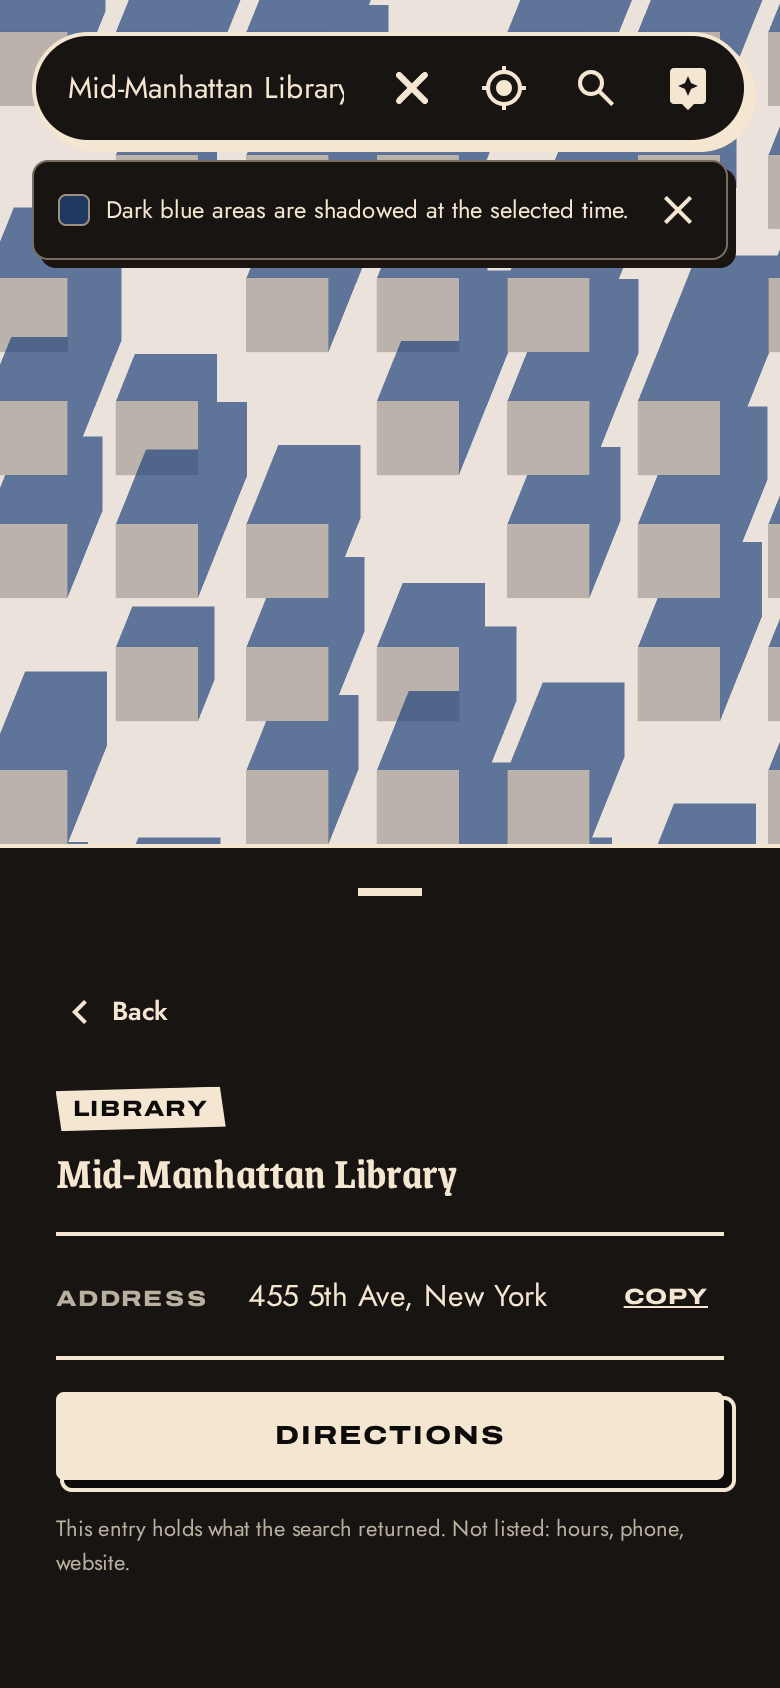
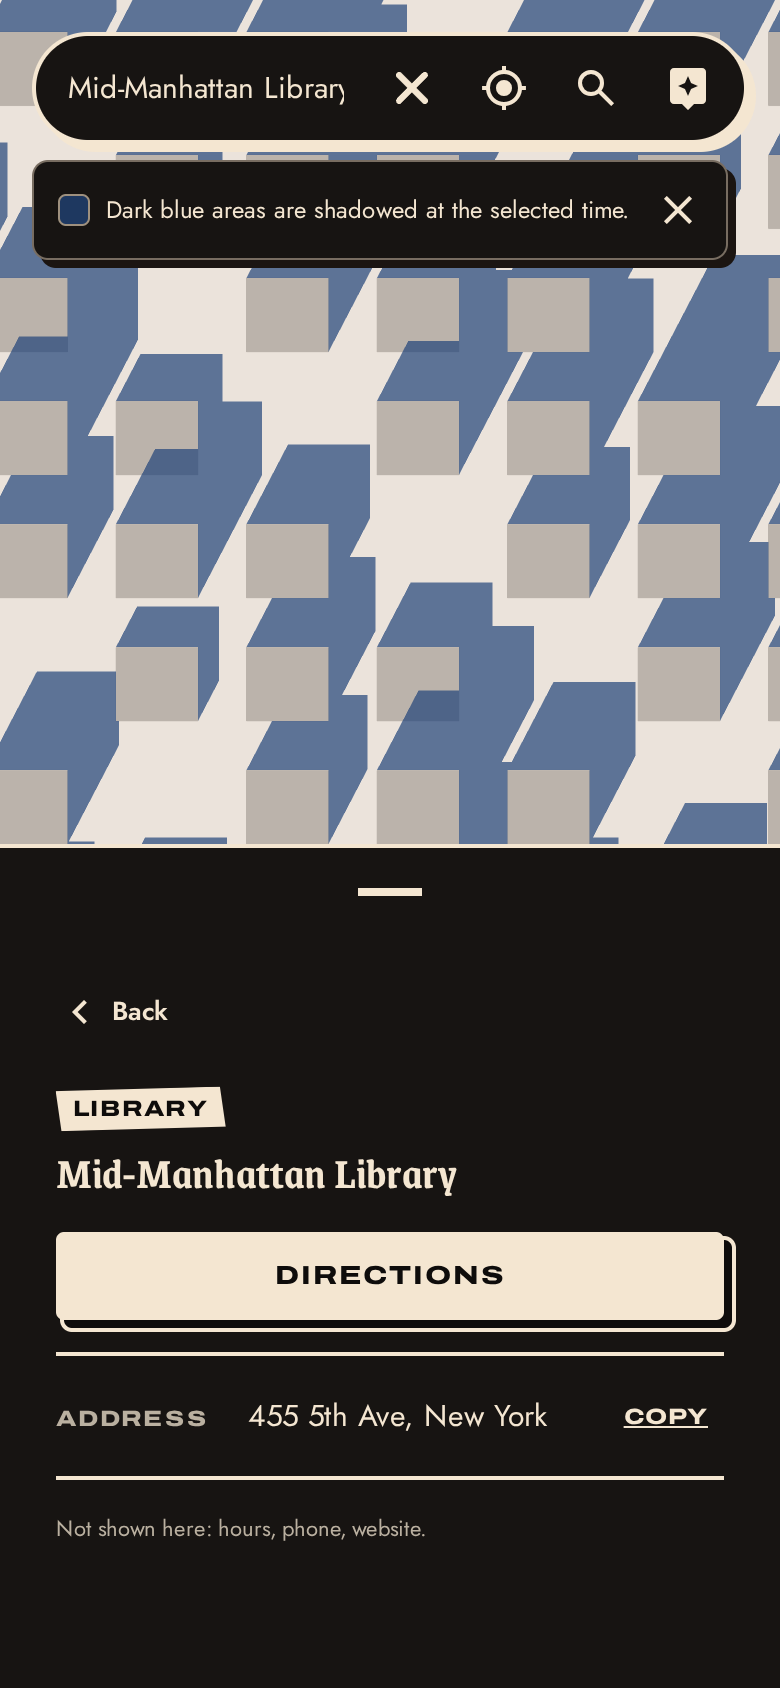
fix(design): ground the place entry's copy, lift Directions under the heading, 44px links

diff --git a/app/components/PlaceDetail.tsx b/app/components/PlaceDetail.tsx
@@ -1,4 +1,4 @@
-import type { ReactNode } from "react";
+import { type ReactNode, useState } from "react";
 import type { PlaceInfo } from "../hooks/useAppState";
 import Kicker from "./ui/Kicker";
 
@@ -10,12 +10,14 @@ interface PlaceDetailProps {
 
 /**
  * A place as a guidebook entry: category plate, the name as its heading, then
- * ruled lines for only the facts the search actually returned. A fact the
- * provider did not give is named as missing once, never drawn as an empty row
- * or a fallback value (a "$$" price, placeholder photos and no-op actions used
- * to stand in for data nobody had).
+ * ruled lines for only the facts this entry holds. A fact it does not hold is
+ * named as missing once, never drawn as an empty row or a fallback value (a
+ * "$$" price, placeholder photos and no-op actions used to stand in for data
+ * nobody had). The caption says "not shown here", not "not returned": the
+ * search can carry hours and a rating that the selection does not pass on yet.
  */
 export default function PlaceDetail({ place, onDirections, onBack }: PlaceDetailProps) {
+  const [copyState, setCopyState] = useState<"idle" | "copied" | "failed">("idle");
   const missing = [
     !place.hours && "hours",
     !place.phone && "phone",
@@ -39,14 +41,11 @@ export default function PlaceDetail({ place, onDirections, onBack }: PlaceDetail
         <h2 className="font-display text-verdict font-semibold leading-tight">{place.name}</h2>
       </header>
 
-      {place.photo && (
-        <img
-          src={place.photo}
-          alt={place.name}
-          className="aspect-video w-full border-2 object-cover"
-          style={{ borderColor: "var(--color-ink)" }}
-        />
-      )}
+      {/* Directly under the heading, so the action sits inside the sheet's first snap
+          point however many lines the entry grows. */}
+      <button type="button" onClick={onDirections} className="umbra-start-button">
+        Directions
+      </button>
 
       <dl className="m-0 border-y-2" style={{ borderColor: "var(--color-ink)" }}>
         <EntryLine term="Address">
@@ -56,27 +55,35 @@ export default function PlaceDetail({ place, onDirections, onBack }: PlaceDetail
               <button
                 type="button"
                 onClick={async () => {
-                  try { await navigator.clipboard.writeText(place.address ?? ""); } catch { /* ignore */ }
+                  try {
+                    await navigator.clipboard.writeText(place.address ?? "");
+                    setCopyState("copied");
+                  } catch {
+                    setCopyState("failed");
+                  }
                 }}
+                aria-label="Copy address"
                 className="min-h-11 shrink-0 px-2 font-extrabold uppercase tracking-wider underline focus-visible:outline-2 focus-visible:-outline-offset-2 focus-visible:outline-current"
                 style={{ fontFamily: "var(--font-label)", fontSize: "var(--text-caption)" }}
               >
-                Copy
+                <span aria-live="polite">{copyState === "copied" ? "Copied" : copyState === "failed" ? "Copy failed" : "Copy"}</span>
               </button>
             </span>
           ) : (
-            <span style={{ color: "var(--color-ink-muted)" }}>Not in the search result</span>
+            <span style={{ color: "var(--color-ink-muted)" }}>No address on file</span>
           )}
         </EntryLine>
         {place.hours && <EntryLine term="Hours">{place.hours}</EntryLine>}
         {place.phone && (
           <EntryLine term="Phone">
-            <a href={`tel:${place.phone}`} className="underline">{place.phone}</a>
+            <a href={`tel:${place.phone.replace(/\s+/g, "")}`} className="inline-flex min-h-11 items-center underline focus-visible:outline-2 focus-visible:-outline-offset-2 focus-visible:outline-current">
+              {place.phone}
+            </a>
           </EntryLine>
         )}
         {place.website && (
           <EntryLine term="Website">
-            <a href={place.website} target="_blank" rel="noopener noreferrer" className="break-all underline">
+            <a href={place.website} target="_blank" rel="noopener noreferrer" className="break-all inline-flex min-h-11 items-center underline focus-visible:outline-2 focus-visible:-outline-offset-2 focus-visible:outline-current">
               {place.website}
             </a>
           </EntryLine>
@@ -86,27 +93,32 @@ export default function PlaceDetail({ place, onDirections, onBack }: PlaceDetail
             <span className="tabular-nums font-extrabold" style={{ fontFamily: "var(--font-numeric)" }}>
               {place.rating.toFixed(1)}/10
             </span>
-            {(place.reviewCount ?? 0) > 0 && (
-              <span style={{ color: "var(--color-ink-muted)" }}> · {place.reviewCount} reviews</span>
-            )}
+            <span style={{ color: "var(--color-ink-muted)" }}>
+              {(place.reviewCount ?? 0) > 0 && ` · ${place.reviewCount} reviews`} · Foursquare
+            </span>
           </EntryLine>
         )}
         {place.priceLevel && <EntryLine term="Price">{place.priceLevel}</EntryLine>}
       </dl>
 
-      <button type="button" onClick={onDirections} className="umbra-start-button">
-        Directions
-      </button>
-
       {missing.length > 0 && (
         <p className="m-0" style={{ fontSize: "var(--text-caption)", color: "var(--color-ink-muted)" }}>
-          This entry holds what the search returned. Not listed: {missing.join(", ")}.
+          Not shown here: {missing.join(", ")}.
         </p>
+      )}
+
+      {place.photo && (
+        <img
+          src={place.photo}
+          alt=""
+          className="aspect-video w-full border-2 object-cover"
+          style={{ borderColor: "var(--color-ink)" }}
+        />
       )}
 
       {place.description && (
         <section>
-          <Kicker>About</Kicker>
+          <h3 className="umbra-kicker m-0">About</h3>
           <p className="mt-1 leading-relaxed" style={{ fontSize: "var(--text-small)" }}>{place.description}</p>
         </section>
       )}

diff --git a/app/components/__tests__/PlaceDetail.test.tsx b/app/components/__tests__/PlaceDetail.test.tsx
@@ -1,12 +1,14 @@
 /* @vitest-environment jsdom */
-import { cleanup, fireEvent, render, screen } from "@testing-library/react";
+import { cleanup, fireEvent, render, screen, waitFor } from "@testing-library/react";
 import { afterEach, describe, expect, it, vi } from "vitest";
 import PlaceDetail from "../PlaceDetail";
 
 /**
- * The claim under test is an honesty one: a search result carries only a name,
- * category and address, so the entry must not draw a price, rating, hours or
- * photos it was never given, and must say which facts are missing.
+ * The claim under test is an honesty one: a selected place arrives with only a
+ * name, category and address (page.tsx handleSearchSelect), so the entry must
+ * not draw a price, rating, hours or photos it was never given, and must say
+ * which facts are missing. The fuller fixture below is not reachable from the
+ * app today; it pins how each line renders once those facts are passed on.
  */
 afterEach(cleanup);
 
@@ -18,17 +20,17 @@ const SEARCHED = {
 };
 
 describe("PlaceDetail", () => {
-  it("shows only what the search returned and names the missing facts", () => {
+  it("shows only the facts it was given and names the missing ones", () => {
     render(<PlaceDetail place={SEARCHED} onDirections={() => {}} onBack={() => {}} />);
 
     expect(screen.getByRole("heading", { name: "Mid-Manhattan Library" })).toBeTruthy();
     expect(screen.getByText("Library")).toBeTruthy();
     expect(screen.getByText("455 5th Ave, New York")).toBeTruthy();
-    expect(screen.getByText(/Not listed: hours, phone, website\./)).toBeTruthy();
+    expect(screen.getByText(/Not shown here: hours, phone, website\./)).toBeTruthy();
     // The old fallbacks: an invented price, placeholder photos, a rating row.
     expect(screen.queryByText("$$")).toBeNull();
     expect(screen.queryByText("Photo")).toBeNull();
-    expect(screen.queryByText("Rating")).toBeNull();
+    for (const term of ["Hours", "Phone", "Website", "Rating", "Price"]) expect(screen.queryByText(term)).toBeNull();
     expect(screen.queryByRole("img")).toBeNull();
   });
 
@@ -42,19 +44,32 @@ describe("PlaceDetail", () => {
     );
 
     expect(screen.getByText("Open until 8 PM")).toBeTruthy();
-    expect(screen.getByRole("link", { name: "212 555 0100" }).getAttribute("href")).toBe("tel:212 555 0100");
+    expect(screen.getByRole("link", { name: "212 555 0100" }).getAttribute("href")).toBe("tel:2125550100");
     expect(screen.getByRole("link", { name: "https://example.org" })).toBeTruthy();
     expect(screen.getByText("9.1/10")).toBeTruthy();
     expect(screen.getByText("$")).toBeTruthy();
-    expect(screen.queryByText(/Not listed/)).toBeNull();
+    expect(screen.queryByText(/Not shown here/)).toBeNull();
   });
 
   it("says the address is missing rather than inventing one", () => {
     render(<PlaceDetail place={{ ...SEARCHED, address: null, category: null }} onDirections={() => {}} onBack={() => {}} />);
 
-    expect(screen.getByText("Not in the search result")).toBeTruthy();
+    expect(screen.getByText("No address on file")).toBeTruthy();
     expect(screen.getByText("Place")).toBeTruthy();
-    expect(screen.queryByRole("button", { name: "Copy" })).toBeNull();
+    expect(screen.queryByRole("button", { name: "Copy address" })).toBeNull();
+  });
+
+  it("says whether the address was copied", async () => {
+    const writeText = vi.fn().mockResolvedValueOnce(undefined).mockRejectedValueOnce(new Error("denied"));
+    Object.defineProperty(navigator, "clipboard", { value: { writeText }, configurable: true });
+    render(<PlaceDetail place={SEARCHED} onDirections={() => {}} onBack={() => {}} />);
+    const copy = screen.getByRole("button", { name: "Copy address" });
+
+    fireEvent.click(copy);
+    await waitFor(() => expect(copy.textContent).toBe("Copied"));
+    expect(writeText).toHaveBeenCalledWith("455 5th Ave, New York");
+    fireEvent.click(copy);
+    await waitFor(() => expect(copy.textContent).toBe("Copy failed"));
   });
 
   it("wires Directions and Back", () => {

diff --git a/docs/tracks/TRACK_R.md b/docs/tracks/TRACK_R.md
@@ -24,7 +24,22 @@ inspiration; the public mirror publishes everything here.
 
 ## Current state
 
-- **Active checkpoint:** R7a (#172), the first slice of R7 (search, place detail,
+- **Active checkpoint:** R7b (#173), PlaceDetail as a guidebook entry, stacked on R7a
+  (PR #176). The entry is an `article`: a 44px Back row, the category on a tilted ink
+  `Kicker` plate (fallback "Place"), the name as an `h2` in Grenze, then the square
+  Directions start button directly under it (inside the first snap point), then a `dl`
+  between 2px ink rules with one ruled line per fact the entry holds: Address always
+  (with a 44px "Copy address" that says Copied / Copy failed, or "No address on file"),
+  and Hours, Phone (`tel:`), Website, Rating ("9.1/10 · Foursquare") and Price only
+  when present. Then one caption names what is missing ("Not shown here: hours, phone,
+  website."), then the photo and an About `h3` when present. Removed: a fabricated "$$"
+  price fallback, four "Photo" placeholders, four no-op action buttons, an empty
+  accessibility row, empty review/description boxes and dead "People also search for"
+  chips. In the app today only name, category, address and coordinates arrive
+  (`handleSearchSelect`), so the fuller lines render only in tests; #178 carries the
+  search row's hours, rating and photo through. Shots: `docs/design/shots/r7b/`
+  (forced UI theme, because picking a place resets the time to now).
+- **R7a (open, #176):** the first slice of R7 (search, place detail,
   assistant), split into R7a search (#172), R7b PlaceDetail (#173) and R7c assistant
   leaflet (#174). The search pill is one solid panel pill with a 2px ink rule and the hard
   offset shadow (no blur or translucency); while its field has focus a solid panel band and an ink ring wrap it (owner request: no map showing through); each icon in it
@@ -159,7 +174,7 @@ inspiration; the public mirror publishes everything here.
   (`app/components/mapPins.ts`, 44px square host, letter or number always shown); a
   reticle user dot; orange only on the sun diagram's daylight marks. No overlay colour is
   blue-dominant, so a drawn route no longer reads as shade (the old `#1d6ee0` did).
-- **Open PRs:** R7a (this checkpoint). R7a follow-ups: #179 (fix for #171, merged into R7a), #175 (row alignment, hours truncation, hover, focus vs highlight, grouping). Still R7: #173 (R7b), #174 (R7c). R6b follow-ups: #165 (design:check red on main: issue refs read as colours, three arbitrary offsets), #166 (Track D: night hours count as most shadowed), #167 (Track E: night Pareto detours), #168 (pill tiers stale after a time change), #169 (board column width, placement, desktop keys). R6a follow-up still open: #163 (ruler keyboard access). Older follow-ups: #140 (Track G: unit flakes under load); #124, #125, #126 (R2);
+- **Open PRs:** R7b (this checkpoint, base R7a), R7a #176. R7b follow-ups: #177 (typeahead re-opens after a pick), #178 (place entry drops the row's hours/rating/photo; Directory distances freeze while panning). R7a follow-ups: #179 (fix for #171, merged into R7a), #175 (row alignment, hours truncation, hover, focus vs highlight, grouping). Still R7: #174 (R7c). R6b follow-ups: #165 (design:check red on main: issue refs read as colours, three arbitrary offsets), #166 (Track D: night hours count as most shadowed), #167 (Track E: night Pareto detours), #168 (pill tiers stale after a time change), #169 (board column width, placement, desktop keys). R6a follow-up still open: #163 (ruler keyboard access). Older follow-ups: #140 (Track G: unit flakes under load); #124, #125, #126 (R2);
   #130 (R3); #137 (labels in shade ~2:1), #138 (R6 sheet edge); #147 (night wording left in
   SolarPill, leg rows, route labels); #150 (waypoint × under 44px), #151 (segmented as radio); #154 (Track G: refresh timer after jsdom teardown); filed elsewhere from R5a: #144, #145 (E), #146 (A).
 - **Decisions made:** D1–D5 in `docs/design/decision.md` are owner-approved and
@@ -172,7 +187,12 @@ inspiration; the public mirror publishes everything here.
   start action is a square ink button with the hard shadow, not a clipped plate (D4); transit
   bullets keep each line's published colour (N yellow, L grey) so cards match the map.
   Still open from R4b: hollow A/filled B swap at night; the opaque night route covers labels.
-- **Next action:** owner review of R7a, then R7b (#173, PlaceDetail as a guidebook entry) and R7c (#174). #126 keeps its SettingsPanel/SaveRouteModal half.
+- **Next action:** owner review of R7a and R7b (merge #176 first, or #179 then #176), then R7c (#174, assistant leaflet with numbered pins). #126 keeps its SettingsPanel/SaveRouteModal half.
+- **Last verified (R7b):** 2026-10-01 on Node 24; lint (0 errors, 79 baseline warnings),
+  typecheck, 1,833 unit tests, build and e2e 11/11. design:check
+  reports the 9 findings already on main (#165), none new. Day and night 390×844 and
+  desktop shots on the fixture basemap; a real-phone look and an `npm run dev` check of
+  Copy are outstanding.
 - **Last verified (R7a):** 2026-10-01 on Node 24; lint (0 errors, 80 baseline warnings),
   typecheck, 1,825 unit tests, build and e2e 11/11 (smoke and nav-smoke; no MapTiler key,
   so smoke-live did not run). design:check reports the 9 findings already on main (#165),

diff --git a/docs/notes/touch-target-audit.md b/docs/notes/touch-target-audit.md
@@ -1,6 +1,6 @@
 # Touch Target Audit
 
-Date: 2026-08-16 · re-audited 2026-09-20 (U4: timeline, bottom sheet, search/sheet interplay, directions form) · 2026-10-01 (R6a: timeline and day rulers; #162: phone control stack, no collapsed sheet; R6b: sheet edge, hourly board; R7a: search pill and directory)
+Date: 2026-08-16 · re-audited 2026-09-20 (U4: timeline, bottom sheet, search/sheet interplay, directions form) · 2026-10-01 (R6a: timeline and day rulers; #162: phone control stack, no collapsed sheet; R6b: sheet edge, hourly board; R7a: search pill and directory; R7b: place entry)
 
 Scope: timeline slider, day slider, bottom sheet, hourly exposure board, and floating map controls for a heatwave user outdoors on a phone, one-handed. The 2026-09-20 pass re-audited exactly the surfaces U4 changed.
 
@@ -17,6 +17,7 @@ Scope: timeline slider, day slider, bottom sheet, hourly exposure board, and flo
 | Floating map controls | Pass | 48px targets. On phones since #162: one right-hand stack of Hide interface (112px), 3D tilt (172px) and a vertical Sun/Rain switch with two 44px segments (232px). Zoom is pinch only and locate is in the search pill. |
 | Segmented controls in the reopened directions form (U4) | Fixed | Walk/Transit tabs, Sun/Rain selector and Walk/Bike/Scoot travel tabs were `py-1` (~25px tall). All three now carry `min-h-11` rows (44px). Walk/Transit also gained `aria-pressed`. |
 | Search pill and directory (R7a) | Fixed | The pill's icon buttons were their ~24px glyphs; each is now a square 44px target (`size-11`), leaving about 135px for typing at 390px with four buttons. Directory rows are full-width buttons, 44px for one line and about 58px with the category line. |
+| Place entry (R7b) | Fixed | Back, Copy address and the phone and website links are each at least 44px tall (`min-h-11`); Directions is the full-width 44px start button, now directly under the heading so it stays inside the first snap point. The old action pills (74px wide) did nothing beyond Directions and are gone. |
 | Mobile search bar over directions (U4) | Fixed | The floating search pill no longer renders during DIRECTIONS/NAVIGATING — it previously sat half over the sheet's planning form and read as a search panel slid open over the navigation card. In IDLE/PLACE_DETAIL/ARRIVAL it is unchanged. |
 | Floating map controls vs raised timeline (U4, review finding) | Fixed | #162: the stack starts at 112px, 8px clear of the 104px timeline card. The old 96/176px offsets assumed an 88px card and sat 8px under it. |
 
